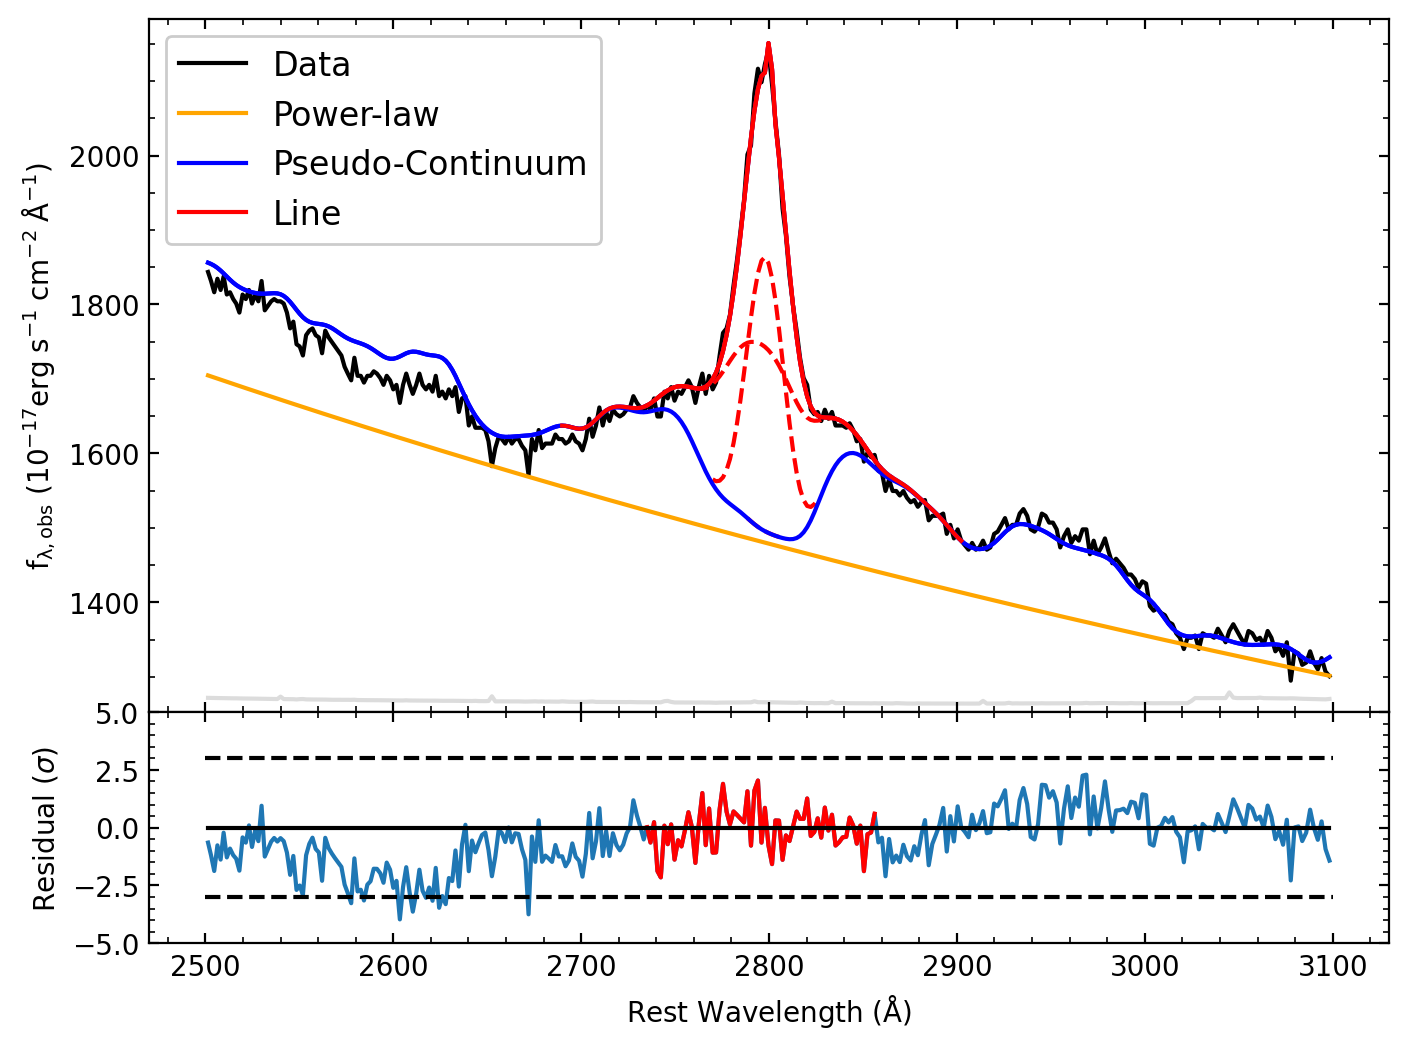
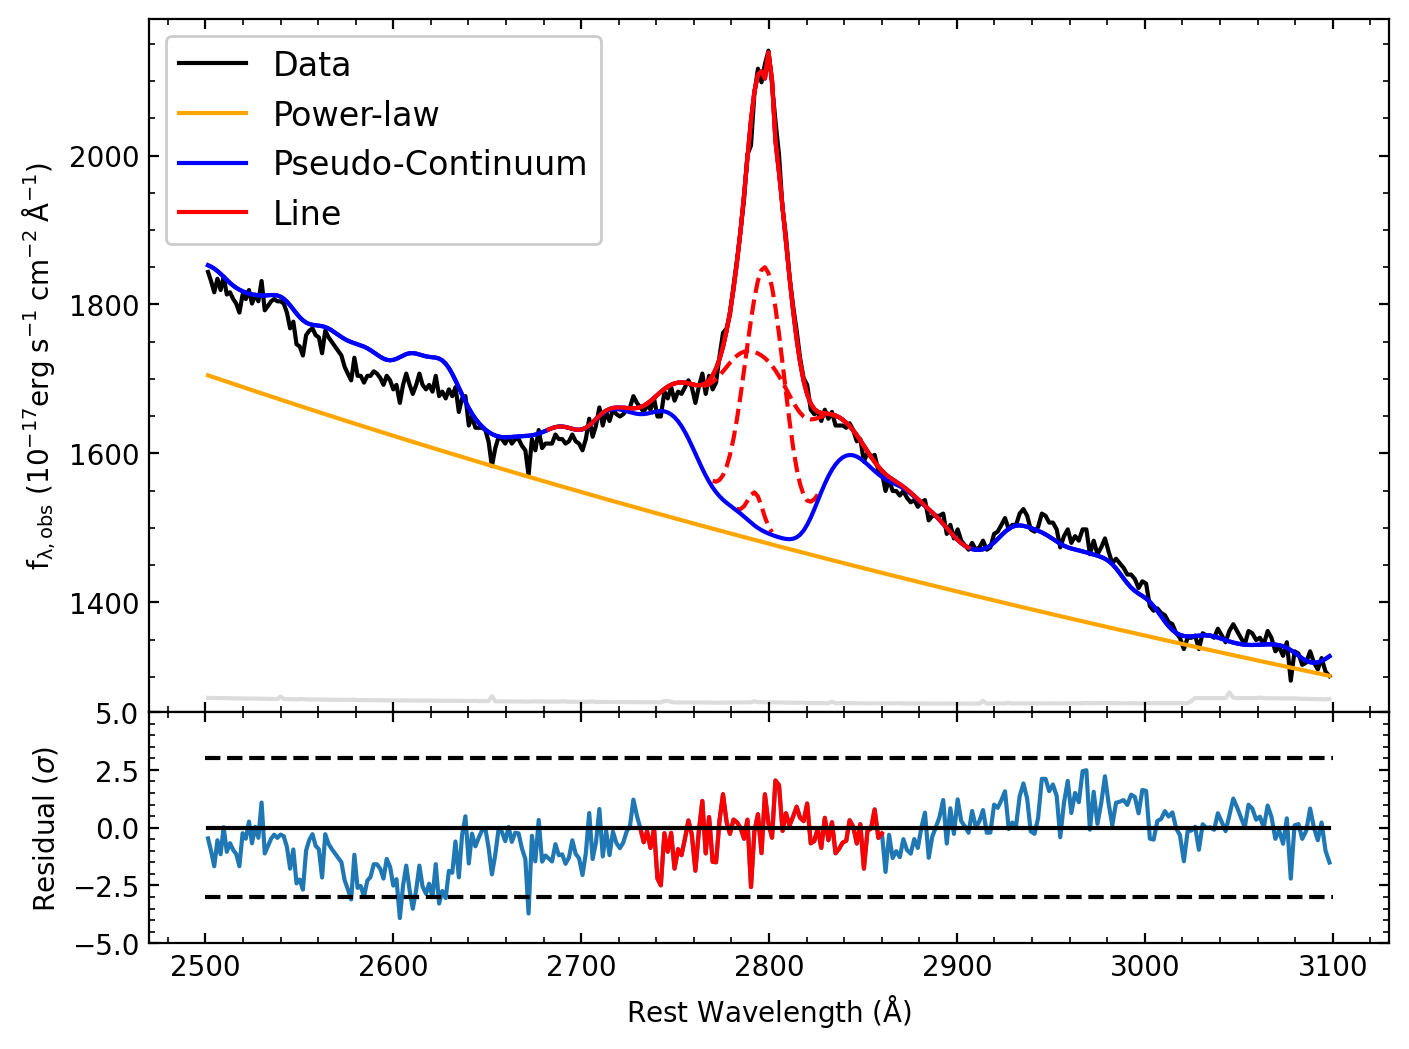
Transition from kmpfit to lmfit

diff --git a/PyQSpecFit.py b/PyQSpecFit.py
@@ -52,7 +52,7 @@ import csv
 # Astropy
 from astropy.cosmology import FlatLambdaCDM
 import astropy.units as u
-from kapteyn import kmpfit
+from lmfit import minimize, Parameters, report_fit
 from astropy.modeling.physical_models import BlackBody
 from astropy.stats import sigma_clip
 
@@ -288,31 +288,54 @@ class PyQSpecFit():
              pp[5:8]: same as pp[2:4] but for the Hbeta/Halpha Fe template
              pp[8:11]: norm, Te and Tau_e for the Balmer continuum at <3646 A
             """
-            self.conti_header = ['PL_Norm', 'PL_Slope', 
-                            'Fe_UV_Norm', 'Fe_UV_FWHM', 'Fe_UV_del', 
-                            'Fe_Opt_Norm', 'Fe_Opt_FWHM', 'Fe_Opt_del', 
-                            'Balmer_norm', 'Balmer_Te', 'Balmer_tau']
         
-            tmp_parinfo = [{'limits': (0, 1E3)}, {'limits': (-5, 3)}, 
-                          {'limits': (0., 1E3)}, {'limits': (1E3, 1E4)}, {'limits': (-0.02, 0.02)},
-                            {'limits': (0., 1E3)}, {'limits': (1E3, 1E4)}, {'limits': (-0.02, 0.02)},
-                            {'limits': (0., 1)}, {'limits': (1E3, 5E4)}, {'limits': (0.1, 4.)}]
-            init_params = [1.0, 0., 0., 3000., 0., 0., 3000., 0., 0., 10000, 0.1]
+            tmp_parinfo = [{'name':'PL_Norm', 'limits': (0, 1E3), 'init_value': 1., 'fixed':False}, 
+                           {'name':'PL_Slope', 'limits': (-5, 3), 'init_value': 0., 'fixed':False}, 
+                           {'name':'Fe_UV_Norm', 'limits': (0., 1E3), 'init_value': 0., 'fixed':True}, 
+                           {'name':'Fe_UV_FWHM', 'limits': (1E3, 1E4), 'init_value': 3000., 'fixed':True}, 
+                           {'name':'Fe_UV_del', 'limits': (-0.02, 0.02), 'init_value': 0., 'fixed':True},
+                           {'name':'Fe_Opt_Norm', 'limits': (0., 1E3), 'init_value': 0., 'fixed':True}, 
+                           {'name':'Fe_Opt_FWHM', 'limits': (1E3, 1E4), 'init_value': 3000., 'fixed':True}, 
+                           {'name':'Fe_Opt_del', 'limits': (-0.02, 0.02), 'init_value': 0., 'fixed':True},
+                           {'name':'Balmer_norm', 'limits': (0., 1), 'init_value': 0., 'fixed':True}, 
+                           {'name':'Balmer_Te', 'limits': (1E3, 5E4), 'init_value': 10000., 'fixed':True}, 
+                           {'name':'Balmer_tau', 'limits': (0.1, 4.), 'init_value': 0.2, 'fixed':True}]
+                           
+            self.conti_header = np.array([i['name'] for i in tmp_parinfo])
 
+            params = Parameters()
+            for pars in tmp_parinfo:
+                params.add(pars['name'], value=pars['init_value'], min=pars['limits'][0], max=pars['limits'][1], vary=not pars['fixed'])
+                
+            if self.useFe:
+                params['Fe_UV_Norm'].value = 1E-4
+                params['Fe_Opt_Norm'].value = 1E-4
+                Fe_params_list = ['Fe_UV_Norm', 'Fe_UV_FWHM', 'Fe_UV_del', 'Fe_Opt_Norm', 'Fe_Opt_FWHM', 'Fe_Opt_del']
+                for i in Fe_params_list:
+                    params[i].vary=True
+            if self.useBalmer:
+                params['Balmer_norm'] = 1E-4
+                Balmer_params_list = ['Balmer_norm', 'Balmer_Te', 'Balmer_tau']
+                for i in Balmer_params_list:
+                    params[i].vary=True
+
+            #params.pretty_print()
+            
             print('Fitting Continuum...')
             print()
-            fitobj = kmpfit.Fitter(residuals=self.conti_residuals, data=(lams, flux, eflux, self.contiWindow))
-            fitobj.parinfo = tmp_parinfo
-            fitobj.fit(params0=init_params)
-            print("Best-fit parameters: ", fitobj.params)
-            print("Iterations:               ", fitobj.niter)
-            print("Reduced Chi^2:              ", fitobj.rchi2_min)
-            #print("Covariance Errors:           ", fitobj.xerror)
-            print("Std Errors:          ", fitobj.stderr)
+            result = minimize(self.conti_residuals, params, args=[(lams, flux, eflux, self.contiWindow)])
+            fitted_params = result.params
+            fitted_values = fitted_params.valuesdict()
+            fitted_array = np.array(list(fitted_values.values()))
+            #report_fit(result)
+            
+            print("Best-fit parameters:  ", fitted_array)
+            print("Function Evaluations: ", result.nfev)
+            print("Reduced Chi^2:        ", result.redchi)
             print()
 
-            self.conti_bestfit = fitobj.params
-            conti_stderrs = fitobj.stderr
+            self.conti_bestfit = fitted_array
+
 
 
             ################
@@ -332,18 +355,22 @@ class PyQSpecFit():
             sigma_highs = pdata_lines['Sigma_high']
 
             # SkewNorm Fitting
-            init_params = []
             init_parinfo = []
             self.line_header = ['Skew', 'Sigma', 'Norm', 'Wavelength']
 
-            for index, line in enumerate(line_names):
+            for index, (lname, wave, norm, shift, slow, shigh) in enumerate(zip(line_names,line_wave,line_norms,line_shifts,sigma_lows,sigma_highs)):
                 # Line Parameters: Skew, Scale, Norm, Central Wavelength
-                line_init_params = [0., sigma_lows[index], line_norms[index], line_wave[index]+self.globalLineShift]
-                line_parinfo = [{'fixed': True}, {'limits': (sigma_lows[index], sigma_highs[index])}, {'limits': (0., 1E2)}, 
-                                {'limits': (line_wave[index]+self.globalLineShift-line_shifts[index], line_wave[index]+self.globalLineShift+line_shifts[index])}]
-                init_params += line_init_params
+                line_parinfo = [{'name':'Skew_'+str(index), 'limits': (-10., 10.), 'init_value': 0., 'fixed': True}, 
+                                {'name':'Sigma_'+str(index), 'limits': (slow, shigh), 'init_value': (slow+shigh)/2., 'fixed':False}, 
+                                {'name':'Norm_'+str(index), 'limits': (-1E-4, 1E2), 'init_value': norm, 'fixed':False}, 
+                                {'name':'Wavelength_'+str(index), 'limits': (wave+self.globalLineShift-shift, wave+self.globalLineShift+shift), 'init_value':wave, 'fixed':False}]
                 init_parinfo += line_parinfo
 
+            params = Parameters()
+            for pars in init_parinfo:
+                params.add(pars['name'], value=pars['init_value'], min=pars['limits'][0], max=pars['limits'][1], vary=not pars['fixed'])
+                
+            #params.pretty_print()
             xx, yy, e_yy = lams, residual_flux, eflux
 
             if self.clipSigma > 0:
@@ -351,20 +378,20 @@ class PyQSpecFit():
                 xx, yy, e_yy = np.array(xx)[mask], np.array(yy)[mask], np.array(e_yy)[mask]
                 xx, yy, e_yy = self.sigma_mask_buffer(self.clipBoxWidth, self.clipSigma, xx, yy, e_yy, self.clipBufferWidth)
 
-            fitobj = kmpfit.Fitter(residuals=self.residual_line, data=(xx, yy, e_yy, self.lineWindow))
-            fitobj.parinfo = init_parinfo
-            fitobj.fit(params0=init_params)
-            print("Best-fit parameters: ", fitobj.params)
-            print("Iterations:               ", fitobj.niter)
-            print("Reduced Chi^2:              ", fitobj.rchi2_min)
-            #print("Covariance Errors:           ", fitobj.xerror)
-            print("Std Errors:          ", fitobj.stderr)
+            result = minimize(self.residual_line, params, args=[(xx, yy, e_yy, self.lineWindow)])
+            fitted_params = result.params
+            fitted_values = fitted_params.valuesdict()
+            fitted_array = np.array(list(fitted_values.values()))
+            #report_fit(result)
+            
+            print("Best-fit parameters:  ", fitted_array)
+            print("Function Evaluations: ", result.nfev)
+            print("Reduced Chi^2:        ", result.redchi)
             print()
+            
+            line_bestfit = fitted_array
 
-            line_bestfit = fitobj.params
-            line_stderrs = fitobj.stderr
-
-            self.out_line_res(lams, line_bestfit, line_stderrs, line_names)
+            self.out_line_res(lams, line_bestfit, line_names)
 
     
 
@@ -780,8 +807,9 @@ class PyQSpecFit():
         xx, yy, e_yy, windows = np.array(data, dtype="object")
         mask = self.create_mask_window(xx, windows)
         conti_xdata, conti_ydata, econti_ydata = np.array(xx)[mask], np.array(yy)[mask], np.array(e_yy)[mask]
-        conti = self.eval_conti_all(p, xx)[mask]
-        return (conti_ydata - conti)/econti_ydata
+        pp = np.array(list(p.valuesdict().values()))
+        conti = self.eval_conti_all(pp, xx)[mask]
+        return (conti_ydata-conti)/econti_ydata
 
     def eval_PL(self, p, xx):
         f_pl = p[0] * (np.array(xx) / 3000.0) ** p[1]
@@ -863,11 +891,7 @@ class PyQSpecFit():
         f_Fe_Balmer = self.Fe_flux(p[5:8], xx, self.fe_ops[self.Fe_opt_ind], self.init_fe_op_fwhms[self.Fe_opt_ind])  # iron flux for balmer line region
         f_Balmer = self.Balmer_conti(p[8:11], xx)
 
-        yval = f_pl
-        if self.useFe:
-            yval += f_Fe_MgII + f_Fe_Balmer
-        if self.useBalmer:
-            yval += f_Balmer
+        yval = f_pl + f_Fe_MgII + f_Fe_Balmer + f_Balmer
         return yval
 
         ########################
@@ -883,7 +907,8 @@ class PyQSpecFit():
         xx, yy, e_yy, windows = np.array(data, dtype="object")
         mask = self.create_mask_window(xx, windows)
         xx, yy, e_yy = np.array(xx)[mask], np.array(yy)[mask], np.array(e_yy)[mask]
-        line_result = self.eval_all_lines(p, xx)
+        pp = np.array(list(p.valuesdict().values()))
+        line_result = self.eval_all_lines(pp, xx)
 
         return (yy - line_result)/e_yy
 
@@ -905,7 +930,7 @@ class PyQSpecFit():
             line_result += np.array(line_res)
         return line_result
 
-    def out_line_res(self, lams, p, ep, line_names):
+    def out_line_res(self, lams, p, line_names):
         num_line_params = len(self.line_header)
         num_lines = int(len(p)/num_line_params)
         print('Formatted Line Parameters:')
